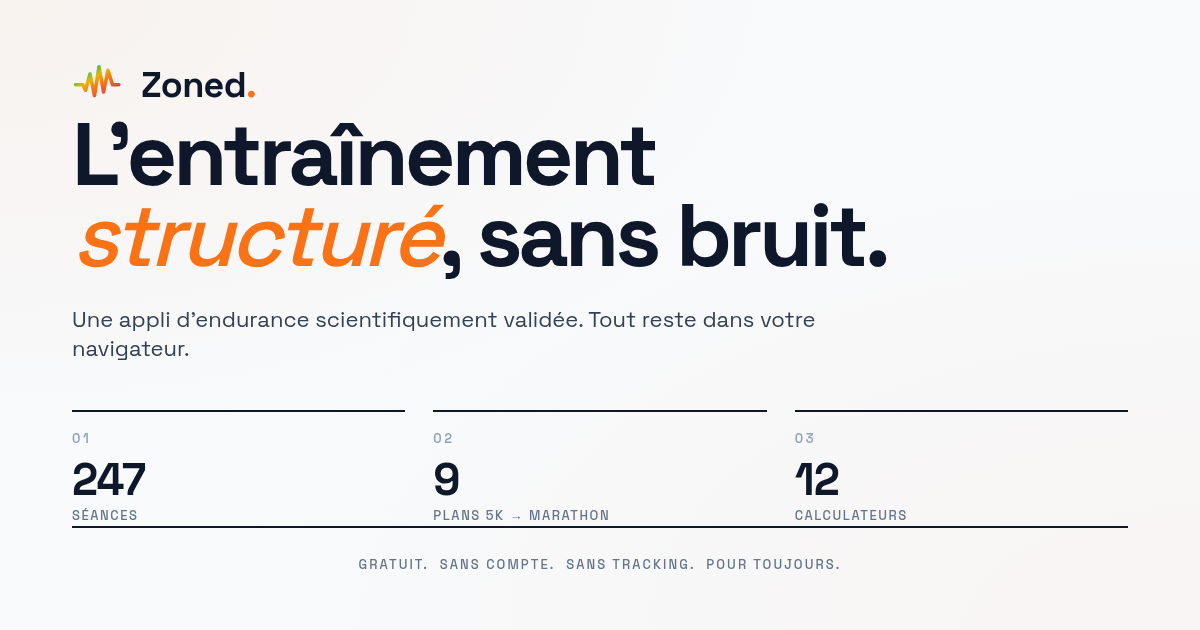
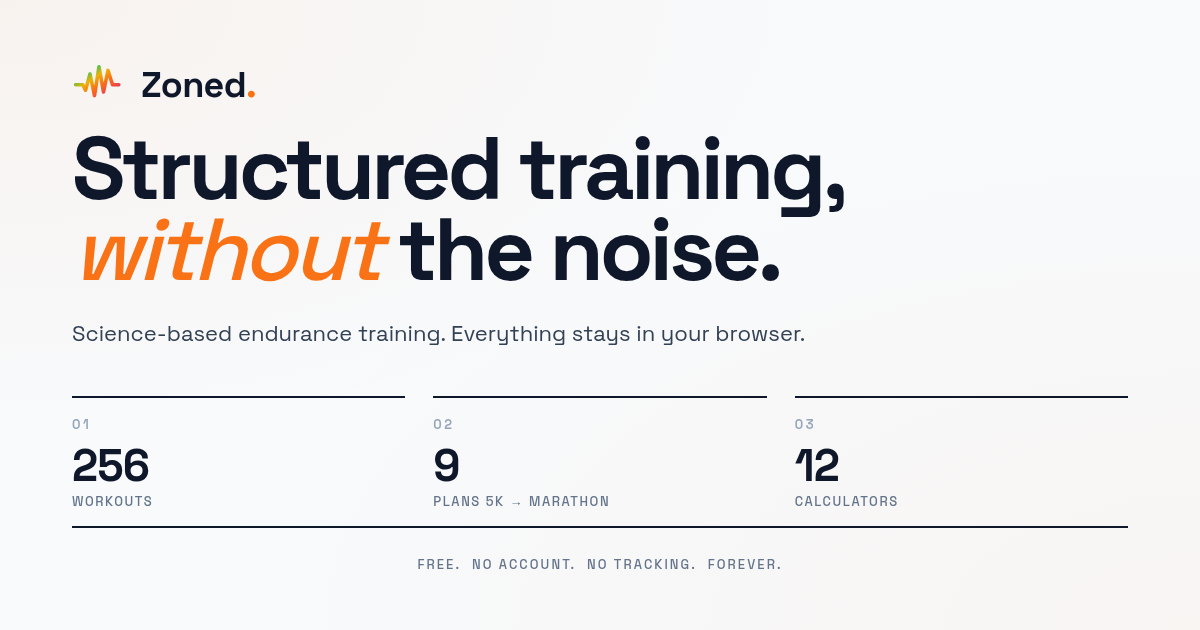
feat(og): regenerate the share cards in English, one per section
The single card was in French, and link previews are read mostly by an
English-speaking audience. The template had its headline, bullets and
footer hardcoded, so it could only ever produce one card.

Parameterise those into placeholders and drive them from a list of cards:
the site-wide one plus library, calculators, plans, learn and
race-simulator, which generate-route-meta.ts points each route at.

Counts come from scripts/site-stats.ts rather than being typed in, so a
headline number cannot drift from the catalogue again — the previous card
still claimed 247 sessions when the catalogue held 256.

diff --git a/scripts/generate-og-image.ts b/scripts/generate-og-image.ts
@@ -1,17 +1,23 @@
 /**
  * USAGE: bun run scripts/generate-og-image.ts
  *
- * Generates Zoned share cards (Wordmark direction) in two formats:
- *   - OG    1200×630 → public/og-image.png             (default OG referenced by SEOHead)
- *   - Square 1080×1080 → public/og-images/wordmark-square.png  (Instagram / LinkedIn carousel)
+ * Generates Zoned share cards (Wordmark direction):
+ *   - public/og-image.png              1200×630  — site-wide card, referenced by index.html
+ *   - public/og-<section>.png          1200×630  — one per key section, referenced by
+ *                                                  scripts/generate-route-meta.ts
+ *   - public/og-images/wordmark-square.png  1080×1080 — Instagram / LinkedIn carousel
  *
- * Reads live app data (workouts, plans, calculators) to keep the subtitle accurate.
+ * Copy is English: these cards are what social crawlers serve to link previews,
+ * and the audience there is predominantly English-speaking. Headline numbers are
+ * read from the live catalogue (scripts/site-stats.ts) so they can never drift.
+ *
  * Design tokens sourced from the Claude Design handoff (variant A — "Scientific & Calm").
  */
 
-import { mkdirSync, readFileSync, readdirSync, writeFileSync } from "fs";
+import { mkdirSync, writeFileSync, readFileSync } from "fs";
 import { dirname, join } from "path";
 import puppeteer from "puppeteer";
+import { readSiteStats } from "./site-stats";
 
 const ROOT = join(import.meta.dirname, "..");
 const TEMPLATE_PATH = join(import.meta.dirname, "og-wordmark-template.html");
@@ -31,76 +37,119 @@ type FormatConfig = {
   bulletFs: number;
   urlFs: number;
   metaFs: number;
-  out: string;
 };
 
 // Sizes scale roughly with the story-ui-refonte.html reference (1080×1920 → headline 156, padding 96).
-const FORMATS: FormatConfig[] = [
-  {
-    name: "og",
-    w: 1200, h: 630,
-    pxX: 72, pxY: 56,
-    wordmarkSize: 36,
-    fs: 88, sub: 22,
-    bulletNumFs: 13, bulletFs: 44,
-    urlFs: 28, metaFs: 13,
-    out: "public/og-image.png",
-  },
-  {
-    name: "square",
-    w: 1080, h: 1080,
-    pxX: 96, pxY: 96,
-    wordmarkSize: 44,
-    fs: 132, sub: 32,
-    bulletNumFs: 16, bulletFs: 60,
-    urlFs: 40, metaFs: 18,
-    out: "public/og-images/wordmark-square.png",
-  },
-];
+const OG: FormatConfig = {
+  name: "og",
+  w: 1200, h: 630,
+  pxX: 72, pxY: 56,
+  wordmarkSize: 36,
+  fs: 88, sub: 22,
+  bulletNumFs: 13, bulletFs: 44,
+  urlFs: 28, metaFs: 13,
+};
 
-// --- Data collection ---
-// Must mirror `useAppStats` (src/hooks/useAppStats.ts) so the OG image shows the
-// same numbers users see on the About page: running + cycling + swimming + strength.
+const SQUARE: FormatConfig = {
+  name: "square",
+  w: 1080, h: 1080,
+  pxX: 96, pxY: 96,
+  wordmarkSize: 44,
+  fs: 132, sub: 32,
+  bulletNumFs: 16, bulletFs: 60,
+  urlFs: 40, metaFs: 18,
+};
 
-function countTemplatesInDir(dir: string): number {
-  const files = readdirSync(dir).filter((f) => f.endsWith(".json"));
-  let total = 0;
-  for (const file of files) {
-    const data = JSON.parse(readFileSync(join(dir, file), "utf-8"));
-    if (data.templates && Array.isArray(data.templates)) {
-      total += data.templates.length;
-    }
-  }
-  return total;
-}
+// --- Card copy -------------------------------------------------------------
 
-function countWorkouts(): number {
-  // src/data/workouts/*.json holds running + cycling + swimming files; strength sessions live separately.
-  const main = countTemplatesInDir(join(ROOT, "src/data/workouts"));
-  const strength = countTemplatesInDir(join(ROOT, "src/data/strength/sessions"));
-  return main + strength;
-}
+type Bullet = { value: string; label: string };
 
-function countCalculators(): number {
-  // Parse the CALCULATEURS array literal in CalculateursPage.tsx (single source of truth in-app).
-  const src = readFileSync(join(ROOT, "src/pages/CalculateursPage.tsx"), "utf-8");
-  const start = src.indexOf("export const CALCULATEURS");
-  if (start === -1) throw new Error("CALCULATEURS array not found");
-  const end = src.indexOf("\n];", start);
-  if (end === -1) throw new Error("CALCULATEURS array terminator not found");
-  const slice = src.slice(start, end);
-  const matches = slice.match(/^\s+id:\s/gm);
-  return matches ? matches.length : 0;
-}
+type Card = {
+  /** Output path relative to the repo root. */
+  out: string;
+  /** Headline may contain <em> (accent italic) and <br />. */
+  headline: string;
+  subline: string;
+  bullets: [Bullet, Bullet, Bullet];
+  footer?: string;
+};
 
-function countPlans(): number {
-  const dir = join(ROOT, "src/data/prebuilt-plans/plans");
-  return readdirSync(dir).filter((f) => f.endsWith(".ts")).length;
+const DEFAULT_FOOTER = "Free.&nbsp; No account.&nbsp; No tracking.&nbsp; Forever.";
+
+function buildCards(stats: ReturnType<typeof readSiteStats>): Card[] {
+  const { workouts, plans, calculators } = stats;
+
+  return [
+    {
+      out: "public/og-image.png",
+      headline: "Structured training,<br /><em>without</em> the noise.",
+      subline: "Science-based endurance training. Everything stays in your browser.",
+      bullets: [
+        { value: String(workouts), label: "Workouts" },
+        { value: String(plans), label: "Plans 5K &rarr; marathon" },
+        { value: String(calculators), label: "Calculators" },
+      ],
+    },
+    {
+      out: "public/og-library.png",
+      headline: "Every session,<br /><em>filtered</em> your way.",
+      subline:
+        "Run, bike, swim and strength sessions across 12 categories — with exports to Garmin, PDF and calendar.",
+      bullets: [
+        { value: String(workouts), label: "Workouts" },
+        { value: "12", label: "Categories" },
+        { value: "6", label: "Training zones" },
+      ],
+    },
+    {
+      out: "public/og-calculators.png",
+      headline: "Know your <em>numbers</em>,<br />not your guesses.",
+      subline: "Zones, paces, VMA, FTP, CSS and race equivalences — computed in your browser.",
+      bullets: [
+        { value: String(calculators), label: "Calculators" },
+        { value: "0", label: "Accounts needed" },
+        { value: "&infin;", label: "Free, forever" },
+      ],
+    },
+    {
+      out: "public/og-plans.png",
+      headline: "A plan that bends<br />when <em>life</em> does.",
+      subline:
+        "Prebuilt or generated plans from 5K to marathon, with periodized strength and one-click rescheduling.",
+      bullets: [
+        { value: String(plans), label: "Prebuilt plans" },
+        { value: "4", label: "View modes" },
+        { value: "5K&ndash;42K", label: "Race distances" },
+      ],
+    },
+    {
+      out: "public/og-learn.png",
+      headline: "The <em>why</em> behind<br />every session.",
+      subline:
+        "Articles, guides and a glossary grounded in published research — Seiler, Billat, Daniels, Coggan.",
+      bullets: [
+        { value: "12", label: "Articles" },
+        { value: "50+", label: "Glossary terms" },
+        { value: "3", label: "Practical guides" },
+      ],
+    },
+    {
+      out: "public/og-race-simulator.png",
+      headline: "Race day,<br /><em>rehearsed</em>.",
+      subline:
+        "Km-by-km pacing, fueling and hydration timing, plus the checklists for the week before.",
+      bullets: [
+        { value: "1 km", label: "Split precision" },
+        { value: "3", label: "Checklists" },
+        { value: "PDF", label: "Export" },
+      ],
+    },
+  ];
 }
 
 // --- Template rendering ---
 
-function buildHtml(fmt: FormatConfig, stats: { workouts: number; plans: number; calculators: number }): string {
+function buildHtml(fmt: FormatConfig, card: Card): string {
   let html = readFileSync(TEMPLATE_PATH, "utf-8");
 
   const subs: Record<string, string | number> = {
@@ -115,9 +164,15 @@ function buildHtml(fmt: FormatConfig, stats: { workouts: number; plans: number; 
     BULLET_FS: fmt.bulletFs,
     URL_FS: fmt.urlFs,
     META_FS: fmt.metaFs,
-    WORKOUT_COUNT: stats.workouts,
-    PLAN_COUNT: stats.plans,
-    CALCULATOR_COUNT: stats.calculators,
+    HEADLINE: card.headline,
+    SUBLINE: card.subline,
+    B1_VALUE: card.bullets[0].value,
+    B1_LABEL: card.bullets[0].label,
+    B2_VALUE: card.bullets[1].value,
+    B2_LABEL: card.bullets[1].label,
+    B3_VALUE: card.bullets[2].value,
+    B3_LABEL: card.bullets[2].label,
+    FOOTER: card.footer ?? DEFAULT_FOOTER,
   };
 
   for (const [key, val] of Object.entries(subs)) {
@@ -128,7 +183,11 @@ function buildHtml(fmt: FormatConfig, stats: { workouts: number; plans: number; 
 
 // --- Screenshot ---
 
-async function captureOne(browser: import("puppeteer").Browser, fmt: FormatConfig, html: string): Promise<Buffer> {
+async function captureOne(
+  browser: import("puppeteer").Browser,
+  fmt: FormatConfig,
+  html: string
+): Promise<Buffer> {
   const page = await browser.newPage();
   await page.setViewport({ width: fmt.w, height: fmt.h, deviceScaleFactor: 1 });
   await page.setContent(html, { waitUntil: "networkidle0", timeout: 15000 });
@@ -141,17 +200,28 @@ async function captureOne(browser: import("puppeteer").Browser, fmt: FormatConfi
   return Buffer.from(screenshot);
 }
 
+async function render(
+  browser: import("puppeteer").Browser,
+  fmt: FormatConfig,
+  card: Card,
+  out: string
+) {
+  const png = await captureOne(browser, fmt, buildHtml(fmt, card));
+  const outPath = join(ROOT, out);
+  mkdirSync(dirname(outPath), { recursive: true });
+  writeFileSync(outPath, png);
+  console.log(`  ${String(fmt.w).padStart(4)}×${String(fmt.h).padEnd(4)} → ${out}`);
+}
+
 // --- Main ---
 
 async function main() {
   console.log("Generating Zoned share cards (Wordmark direction)...");
 
-  const stats = {
-    workouts: countWorkouts(),
-    plans: countPlans(),
-    calculators: countCalculators(),
-  };
+  const stats = readSiteStats();
   console.log("Stats:", stats);
+
+  const cards = buildCards(stats);
 
   const browser = await puppeteer.launch({
     headless: true,
@@ -159,14 +229,11 @@ async function main() {
   });
 
   try {
-    for (const fmt of FORMATS) {
-      const html = buildHtml(fmt, stats);
-      const png = await captureOne(browser, fmt, html);
-      const outPath = join(ROOT, fmt.out);
-      mkdirSync(dirname(outPath), { recursive: true });
-      writeFileSync(outPath, png);
-      console.log(`  ${fmt.name.padEnd(8)} ${fmt.w}×${fmt.h} → ${fmt.out}`);
+    for (const card of cards) {
+      await render(browser, OG, card, card.out);
     }
+    // Square variant of the site-wide card only — used for Instagram / LinkedIn.
+    await render(browser, SQUARE, cards[0], "public/og-images/wordmark-square.png");
   } finally {
     await browser.close();
   }

diff --git a/scripts/og-wordmark-template.html b/scripts/og-wordmark-template.html
@@ -198,30 +198,30 @@
     </div>
 
     <div class="headline-block">
-      <h1 class="headline">L&rsquo;entra&icirc;nement<br /><em>structur&eacute;</em>, sans bruit.</h1>
-      <p class="subline">Une appli d&rsquo;endurance scientifiquement valid&eacute;e. Tout reste dans votre navigateur.</p>
+      <h1 class="headline">{{HEADLINE}}</h1>
+      <p class="subline">{{SUBLINE}}</p>
     </div>
 
     <div class="bullets">
       <div class="bullet">
         <div class="b-num">01</div>
-        <div class="b-value">{{WORKOUT_COUNT}}</div>
-        <div class="b-label">S&eacute;ances</div>
+        <div class="b-value">{{B1_VALUE}}</div>
+        <div class="b-label">{{B1_LABEL}}</div>
       </div>
       <div class="bullet">
         <div class="b-num">02</div>
-        <div class="b-value">{{PLAN_COUNT}}</div>
-        <div class="b-label">Plans 5K &rarr; marathon</div>
+        <div class="b-value">{{B2_VALUE}}</div>
+        <div class="b-label">{{B2_LABEL}}</div>
       </div>
       <div class="bullet">
         <div class="b-num">03</div>
-        <div class="b-value">{{CALCULATOR_COUNT}}</div>
-        <div class="b-label">Calculateurs</div>
+        <div class="b-value">{{B3_VALUE}}</div>
+        <div class="b-label">{{B3_LABEL}}</div>
       </div>
     </div>
 
     <div class="footer">
-      Gratuit.&nbsp; Sans compte.&nbsp; Sans tracking.&nbsp; Pour toujours.
+      {{FOOTER}}
     </div>
   </div>
 </body>
